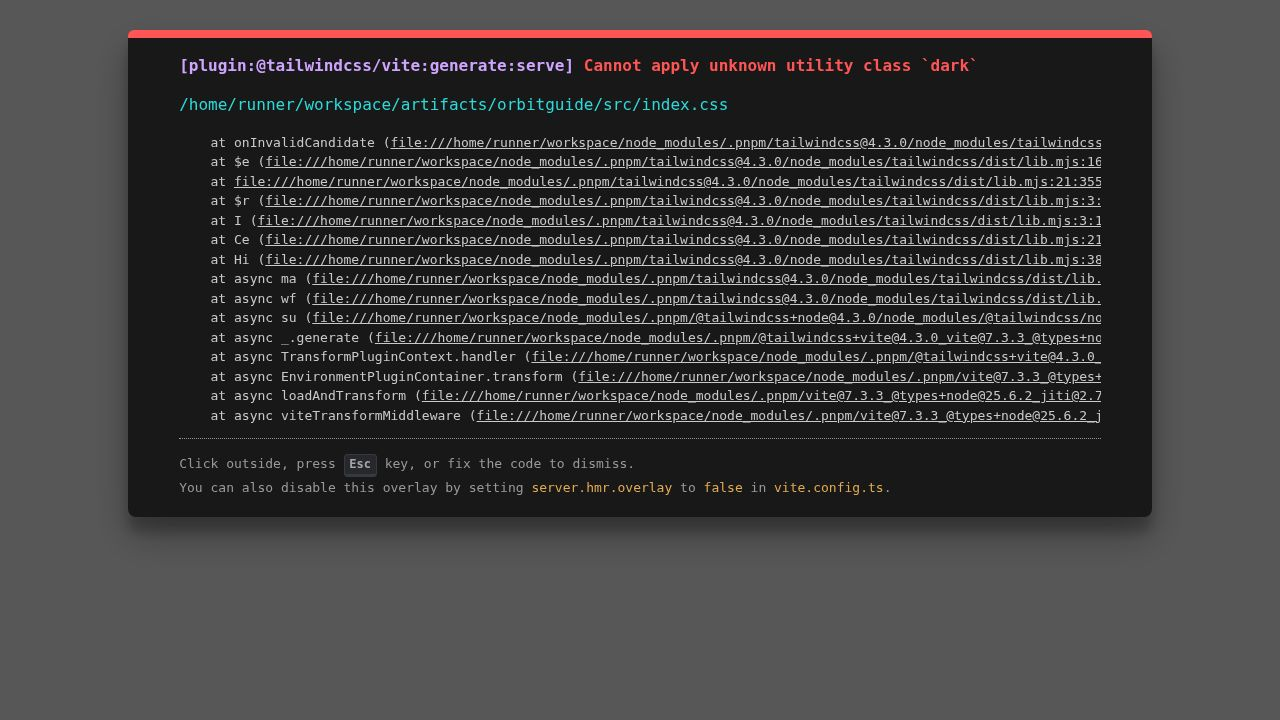
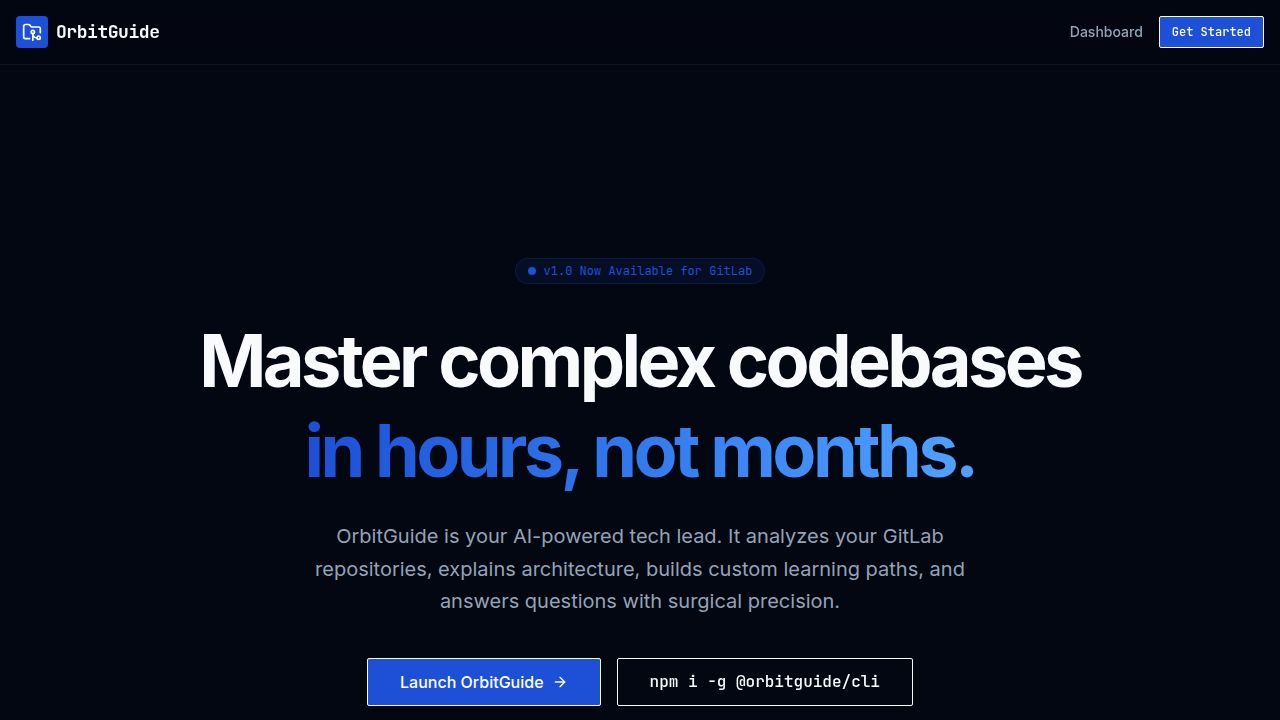
Integrate Groq AI services for improved response generation and speed
Update API server configuration to use Groq API endpoint and the llama-3.3-70b-versatile model, replacing OpenAI's gpt-4o-mini.

Replit-Commit-Author: Agent
Replit-Commit-Session-Id: aa147214-c844-4e0b-b5ed-8c1f03782a65
Replit-Commit-Checkpoint-Type: full_checkpoint
Replit-Commit-Event-Id: 7d70cc3a-911b-46a9-8821-c3c83870fe14
Replit-Commit-Screenshot-Url: https://storage.googleapis.com/screenshot-production-us-central1/a354a37a-d4d2-4fa8-90c1-813e104c12f9/aa147214-c844-4e0b-b5ed-8c1f03782a65/tcaQux1
Replit-Helium-Checkpoint-Created: true

diff --git a/artifacts/api-server/src/routes/repositories/index.ts b/artifacts/api-server/src/routes/repositories/index.ts
@@ -132,7 +132,7 @@ router.post("/repositories", async (req, res): Promise<void> => {
       const prompt = buildRepositoryAnalysisPrompt(project.name, fileTree, languages);
 
       const completion = await openai.chat.completions.create({
-        model: "gpt-4o-mini",
+        model: "llama-3.3-70b-versatile",
         max_tokens: 4096,
         messages: [{ role: "user", content: prompt }],
         response_format: { type: "json_object" },
@@ -327,7 +327,7 @@ router.post("/repositories/:id/chat", async (req, res): Promise<void> => {
   let fullResponse = "";
 
   const stream = await openai.chat.completions.create({
-    model: "gpt-4o-mini",
+    model: "llama-3.3-70b-versatile",
     max_tokens: 4096,
     messages: [{ role: "system", content: systemPrompt }, ...chatMessages],
     stream: true,
@@ -407,7 +407,7 @@ router.post("/repositories/:id/learning-path", async (req, res): Promise<void> =
   );
 
   const completion = await openai.chat.completions.create({
-    model: "gpt-4o-mini",
+    model: "llama-3.3-70b-versatile",
     max_tokens: 4096,
     messages: [{ role: "user", content: prompt }],
     response_format: { type: "json_object" },
@@ -471,7 +471,7 @@ router.get("/repositories/:id/health", async (req, res): Promise<void> => {
   );
 
   const completion = await openai.chat.completions.create({
-    model: "gpt-4o-mini",
+    model: "llama-3.3-70b-versatile",
     max_tokens: 3000,
     messages: [{ role: "user", content: prompt }],
     response_format: { type: "json_object" },
@@ -529,7 +529,7 @@ router.get("/repositories/:id/architecture", async (req, res): Promise<void> => 
   const prompt = buildArchitecturePrompt(repo.name, fileTree, repo.modules || [], repo.keyServices || []);
 
   const completion = await openai.chat.completions.create({
-    model: "gpt-4o-mini",
+    model: "llama-3.3-70b-versatile",
     max_tokens: 4096,
     messages: [{ role: "user", content: prompt }],
     response_format: { type: "json_object" },

diff --git a/artifacts/api-server/src/lib/openai.ts b/artifacts/api-server/src/lib/openai.ts
@@ -1,9 +1,10 @@
 import OpenAI from "openai";
 
-if (!process.env.OPENAI_API_KEY) {
-  throw new Error("OPENAI_API_KEY must be set.");
+if (!process.env.GROQ_API_KEY) {
+  throw new Error("GROQ_API_KEY must be set.");
 }
 
 export const openai = new OpenAI({
-  apiKey: process.env.OPENAI_API_KEY,
+  apiKey: process.env.GROQ_API_KEY,
+  baseURL: "https://api.groq.com/openai/v1",
 });

diff --git a/replit.md b/replit.md
@@ -11,7 +11,7 @@ AI-powered developer onboarding platform that helps new engineers understand lar
 - `pnpm --filter @workspace/api-spec run codegen` — regenerate API hooks and Zod schemas from the OpenAPI spec
 - `pnpm --filter @workspace/db run push` — push DB schema changes (dev only)
 - Required env: `DATABASE_URL` — Postgres connection string
-- Required env: `OPENAI_API_KEY` — OpenAI API key for AI features
+- Required env: `GROQ_API_KEY` — Groq API key for AI features (free at console.groq.com)
 - Required env: `GITLAB_TOKEN` — GitLab Personal Access Token (read_api, read_repository scopes)
 
 ## Stack
@@ -20,7 +20,7 @@ AI-powered developer onboarding platform that helps new engineers understand lar
 - Frontend: React + Vite + Tailwind CSS v4 + shadcn/ui + wouter
 - API: Express 5
 - DB: PostgreSQL + Drizzle ORM
-- AI: OpenAI GPT-4o-mini (chat completions, streaming SSE)
+- AI: Groq llama-3.3-70b-versatile (chat completions, streaming SSE) via OpenAI-compatible SDK
 - GitLab: GitLab REST API v4 (project fetch, file tree, languages)
 - Validation: Zod (`zod/v4`), `drizzle-zod`
 - API codegen: Orval (from OpenAPI spec)